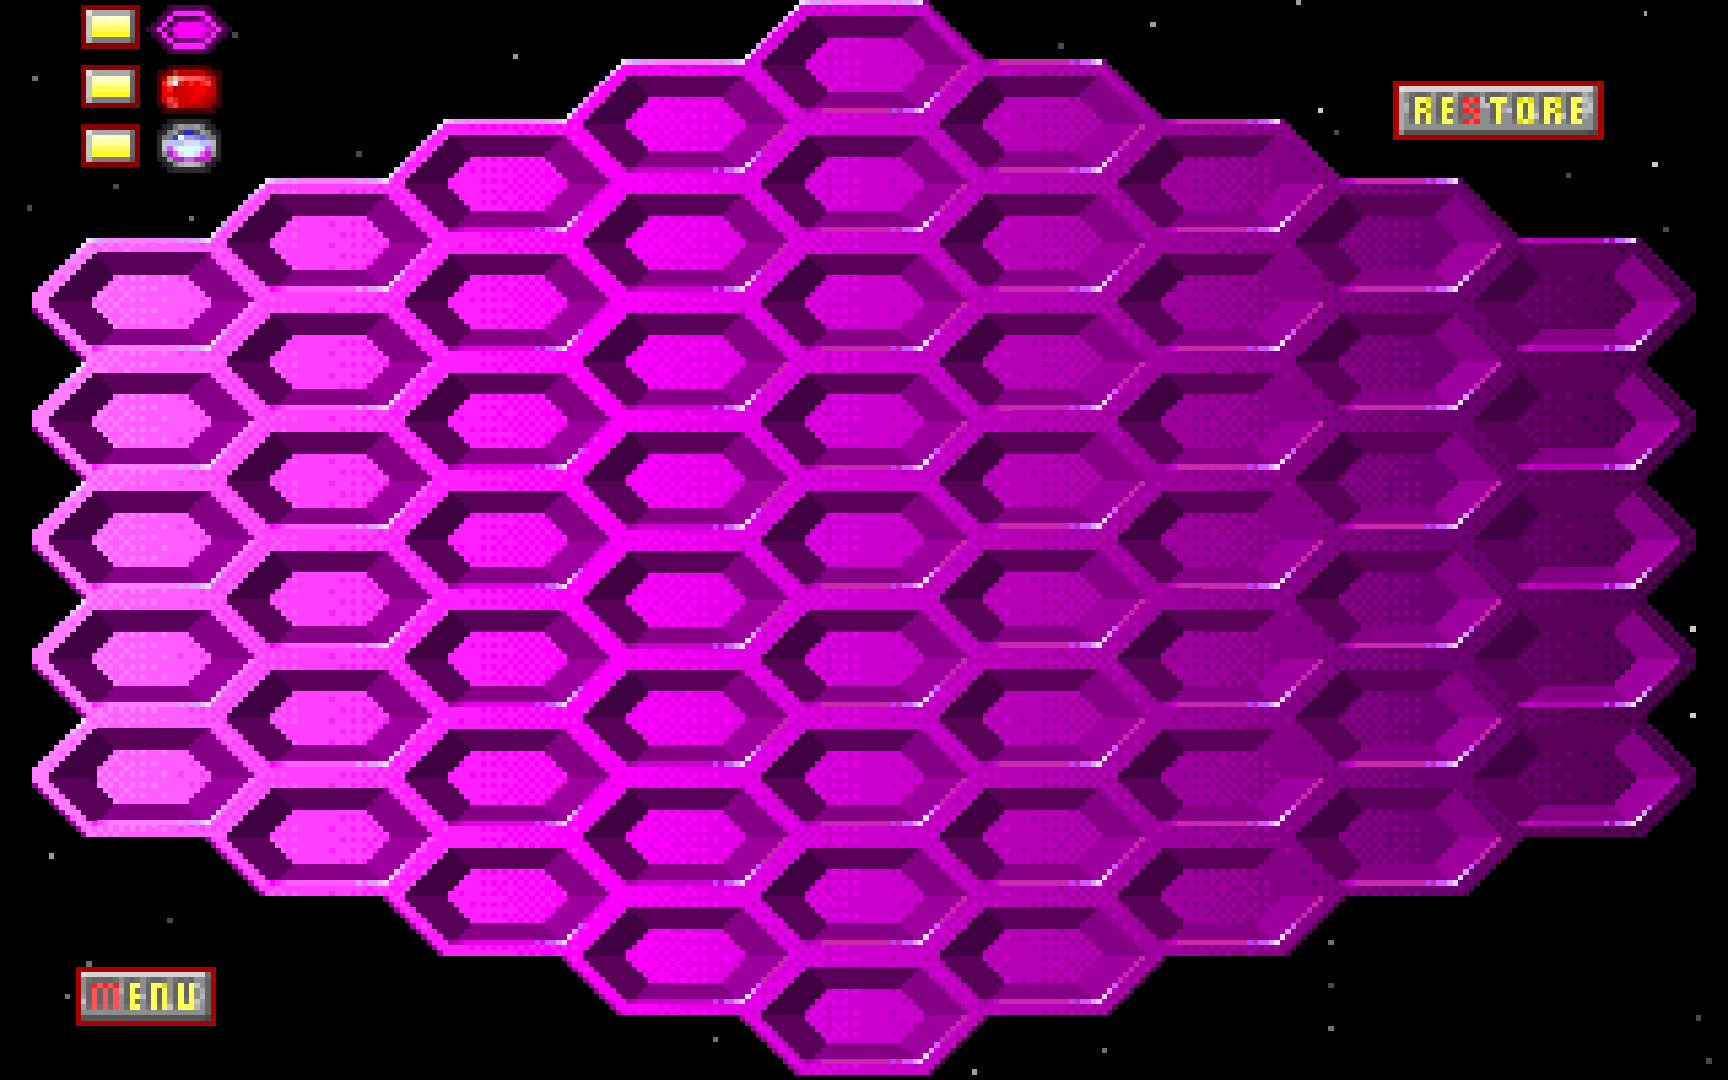
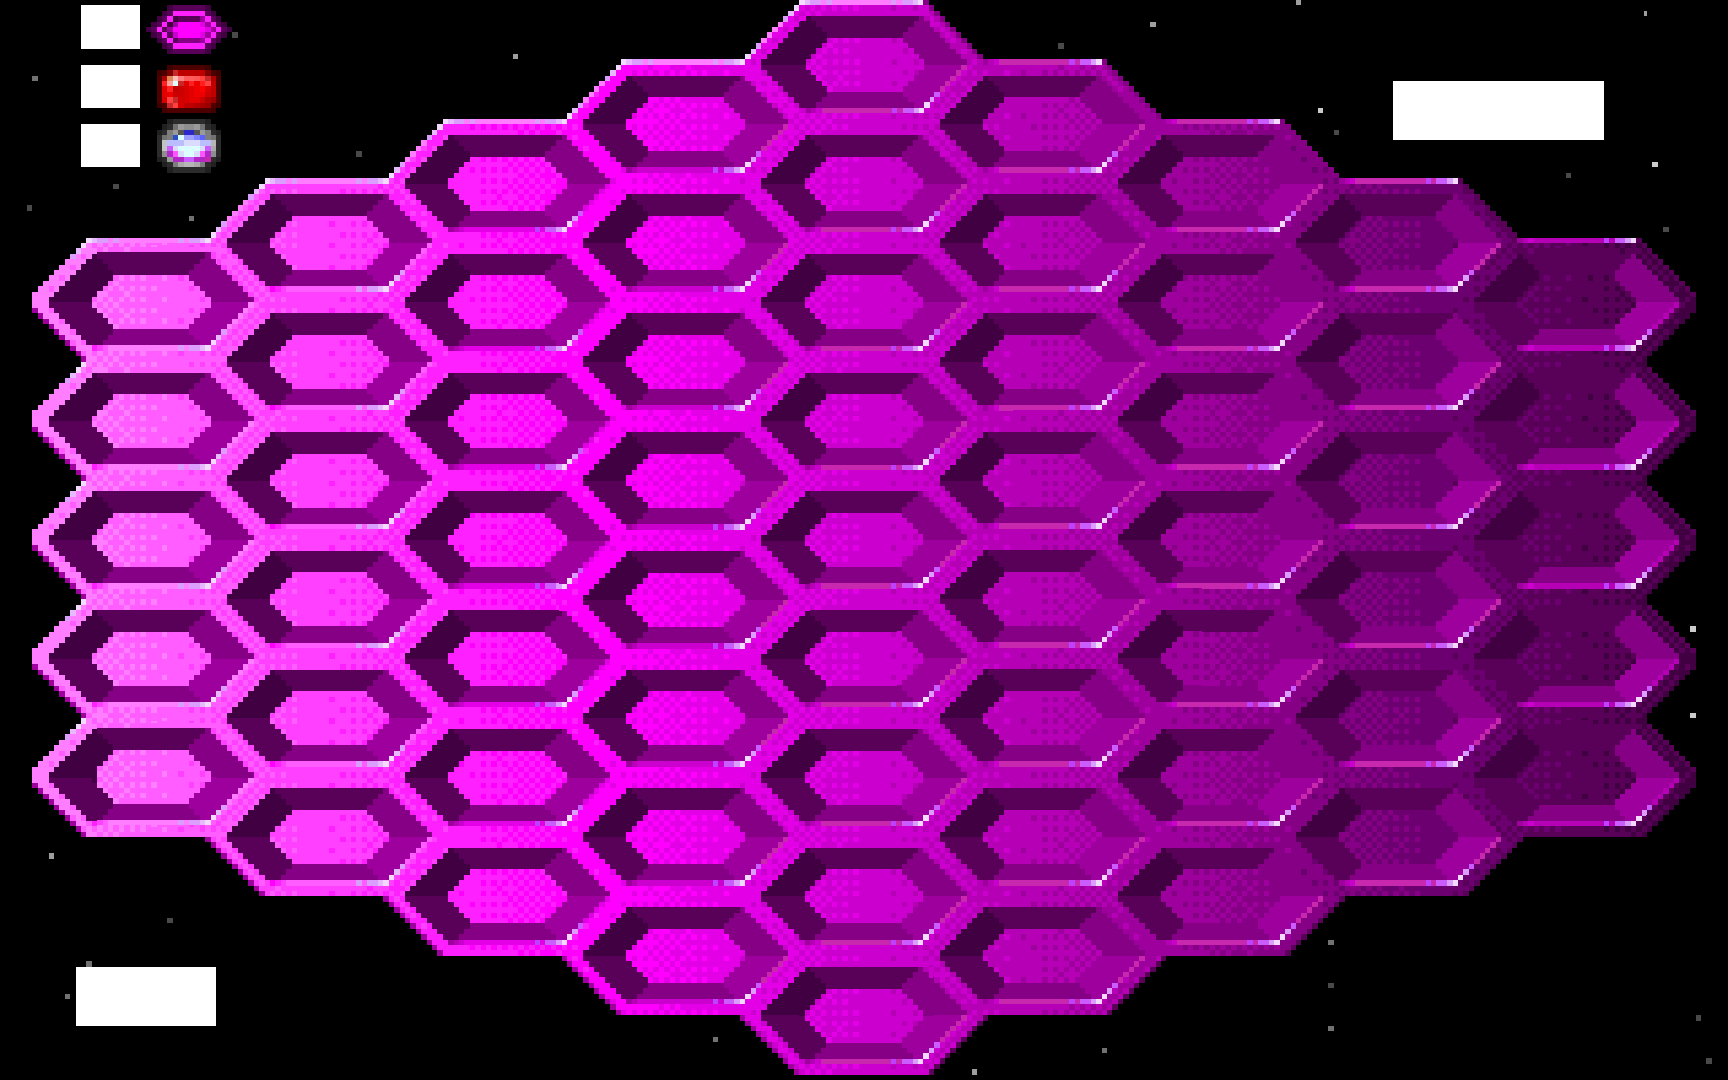
Resolution independency

Changed region(s): [[0.7812, 0.0611, 0.9375, 0.1528], [0.0312, 0.0, 0.0938, 0.1528], [0.0312, 0.8861, 0.125, 0.9472]]

diff --git a/src/Graphics/Main.java b/src/Graphics/Main.java
@@ -5,10 +5,12 @@ import javafx.geometry.Rectangle2D;
 import javafx.scene.Group;
 import javafx.scene.Node;
 import javafx.scene.Scene;
+import javafx.scene.control.Button;
 import javafx.scene.image.Image;
 import javafx.scene.image.ImageView;
 import javafx.scene.input.KeyCode;
 import javafx.scene.input.KeyEvent;
+import javafx.scene.layout.*;
 import javafx.scene.paint.Color;
 import javafx.stage.Screen;
 import javafx.stage.Stage;
@@ -17,9 +19,10 @@ import java.io.FileInputStream;
 import java.io.FileNotFoundException;
 import java.util.ArrayList;
 
-public class Menu extends Application {
+public class Main extends Application {
 
     private Rectangle2D primaryScreenBounds = Screen.getPrimary().getBounds();
+    private double widthRatio, heightRatio, backgroundX, backgroundY;
 
     private ImageView loadBackGround(String fileName) throws FileNotFoundException {
 
@@ -30,6 +33,9 @@ public class Menu extends Application {
         imageView.setFitWidth(primaryScreenBounds.getWidth());
 
         centerImage(imageView);
+
+        widthRatio = imageView.getLayoutBounds().getWidth() / 1728;
+        heightRatio = imageView.getLayoutBounds().getHeight() / 1080;
 
         return imageView;
     }
@@ -46,17 +52,52 @@ public class Menu extends Application {
 
         imageView.setX((imageView.getFitWidth() - w) / 2);
         imageView.setY((imageView.getFitHeight() - h) / 2);
+        backgroundX = imageView.getX();
+        backgroundY = imageView.getY();
 
         imageView.setPreserveRatio(true);
+    }
+
+    private Button imageToButton(String fileName) throws FileNotFoundException {
+
+        Button bt = new Button();
+
+        Image image = new Image(new FileInputStream("Graphics\\1920x1080\\" + fileName + ".png"));
+        BackgroundSize size = new BackgroundSize(image.getWidth() * widthRatio, image.getHeight() * heightRatio, false, false, false, false);
+        BackgroundImage backgroundImage = new BackgroundImage(image, BackgroundRepeat.NO_REPEAT, BackgroundRepeat.NO_REPEAT, BackgroundPosition.DEFAULT, size);
+
+        bt.setBackground(new Background(backgroundImage));
+        bt.setMinSize(image.getWidth() * widthRatio, image.getHeight() * heightRatio);
+
+        return bt;
+    }
+
+    private void placeButton(Button button, double x, double y){
+
+        button.setLayoutX(backgroundX + x * widthRatio);
+        button.setLayoutY(backgroundY + y * heightRatio);
+    }
+
+    private Button makeButton(String fileName, double x, double y){
+
+        Button bt = null;
+
+        try { bt = imageToButton(fileName); } catch (FileNotFoundException e) { System.out.println("File not found!"); }
+
+        placeButton(bt, x, y);
+
+        return bt;
     }
 
     private Scene makeScene(String fileName) throws FileNotFoundException {
 
         ArrayList<Node> elements = new ArrayList<>();
-        elements.add(loadBackGround(fileName));
+        elements.add(loadBackGround("Game"));
+        elements.add(makeButton("Menu Button", 76, 967));
+        elements.add(makeButton("Blue", 808, 21));
         Group root = new Group(elements);
 
-        return new Scene(root, primaryScreenBounds.getMinX(), primaryScreenBounds.getMinY(), Color.BLACK);
+        return new Scene(root, primaryScreenBounds.getMinX(), primaryScreenBounds.getMinY(), Color.WHITE);
     }
 
     private void setExitKey(Stage primaryStage, KeyCode key){
@@ -74,7 +115,7 @@ public class Menu extends Application {
         setExitKey(primaryStage, KeyCode.ESCAPE);
         primaryStage.setFullScreen(true);
 
-        primaryStage.setScene(makeScene("Menu"));
+        primaryStage.setScene(makeScene("Game"));
 
         primaryStage.show();
     }

diff --git a/src/Controls/Board.java b/src/Controls/Board.java
@@ -1,7 +1,6 @@
 package Controls;
 
-import Enums.MoveType;
-import Enums.UnitType;
+import Enums.*;
 import Exeptions.NoValidMoveException;
 import Players.AI;
 
@@ -115,7 +114,7 @@ public class Board implements Serializable {
         fields.removeIf((f) -> !getField(f).getContent().isEmpty());
     }
 
-    public void selectEnemyFields( ArrayList<Coordinate> fields) {
+    private void selectEnemyFields( ArrayList<Coordinate> fields) {
 
         UnitType enemy = getPreviousPlayer();
         fields.removeIf((f) -> !getField(f).getContent().equals(enemy.getOpposite()));
@@ -124,6 +123,19 @@ public class Board implements Serializable {
     public Field getField( Coordinate coordinate){
 
         return GameBoard[coordinate.y][coordinate.x];
+    }
+
+    public Field getField(double x, double y){
+
+        Coordinate c = null;
+
+        for(int i = 0; i < HEIGHT; i++)
+            for(int j = 0; j < WIDTH; j++)
+                if(95 + j * 178 > x && 21 + i * 118.5 > y)
+                   c = new Coordinate(j - 1, i - 1);
+
+        assert c != null;
+        return getField(c);
     }
 
     public UnitType getPreviousPlayer() {
@@ -171,22 +183,27 @@ public class Board implements Serializable {
     @Override
     public boolean equals( Object o){
 
-        for(int i = 0; i < this.coordinates.size(); i++) {
+        if(o.getClass().equals(Board.class)) {
 
-            Field thisField = getField(coordinates.get(i));
-            Field bField = ((Board)o).getField(((Board)o).coordinates.get(i));
+            for (int i = 0; i < this.coordinates.size(); i++) {
 
-            if (!thisField.equals(bField))
-                return false;
+                Field thisField = getField(coordinates.get(i));
+                Field bField = ((Board) o).getField(((Board) o).coordinates.get(i));
+
+                if (!thisField.equals(bField))
+                    return false;
+            }
+
+            return true;
         }
 
-        return true;
+        return false;
     }
 
     @Override
     public String toString() {
 
-        String board = "";
+        StringBuilder board = new StringBuilder();
 
         for(int y = 0; y < HEIGHT; y++) {
 
@@ -198,30 +215,30 @@ public class Board implements Serializable {
                     switch (getField(c).getContent()) {
 
                         case BLUE:
-                            board += "|B|";
+                            board.append("|B|");
                             break;
 
                         case RED:
-                            board += "|R|";
+                            board.append("|R|");
                             break;
 
                         case EMPTY:
-                            board += "| |";
+                            board.append("| |");
                             break;
 
                         case HOLE:
-                            board += "|O|";
+                            board.append("|O|");
                             break;
                     }
 
                 else
-                    board += "   ";
+                    board.append("   ");
             }
 
-            board += "\n";
+            board.append("\n");
         }
 
-        return board;
+        return board.toString();
     }
 
     public void listMoves(){
